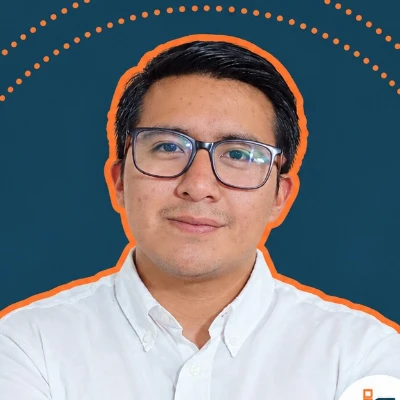
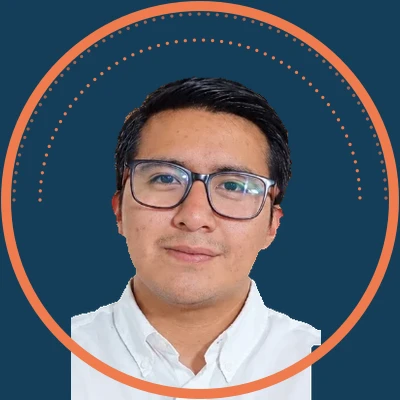
Equipo: las 5 fotos con un solo estilo (fondo azul, arcos y aro naranja)
Claude-Session: https://claude.ai/code/session_01M23Ti5V8BzLpDggN586zGC

diff --git a/components/Team.js b/components/Team.js
@@ -16,7 +16,7 @@ const team = [
     name: "Maura",
     role: "Coordinadora de Marketing · Ejecutiva de cuentas",
     body: "Acompaña tu cuenta en el día a día, coordina al equipo y revisa cada pieza y cada campaña antes de que llegue a ti.",
-    img: "/img/equipo-maura-circulo.png",
+    img: "/img/equipo-maura-circulo.webp",
   },
   {
     name: "Pame",
